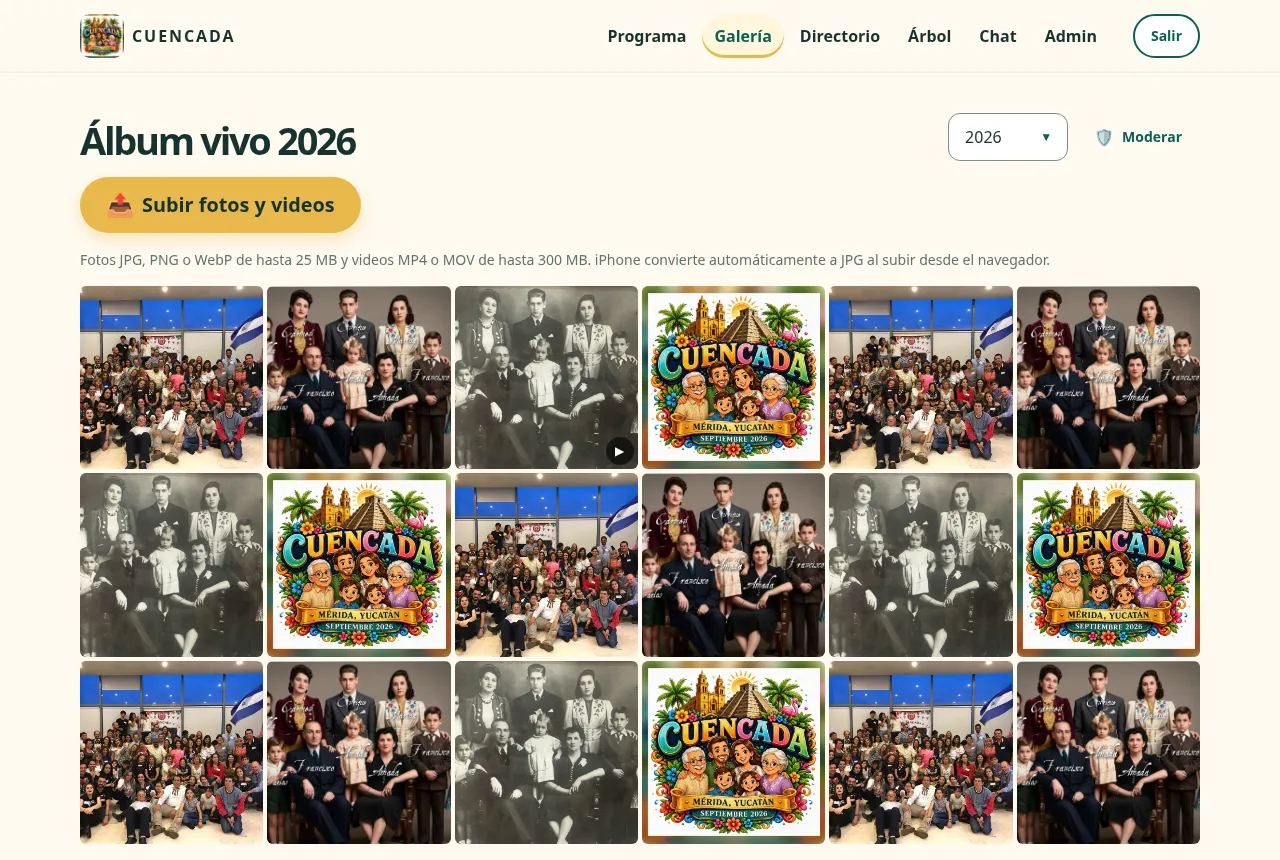
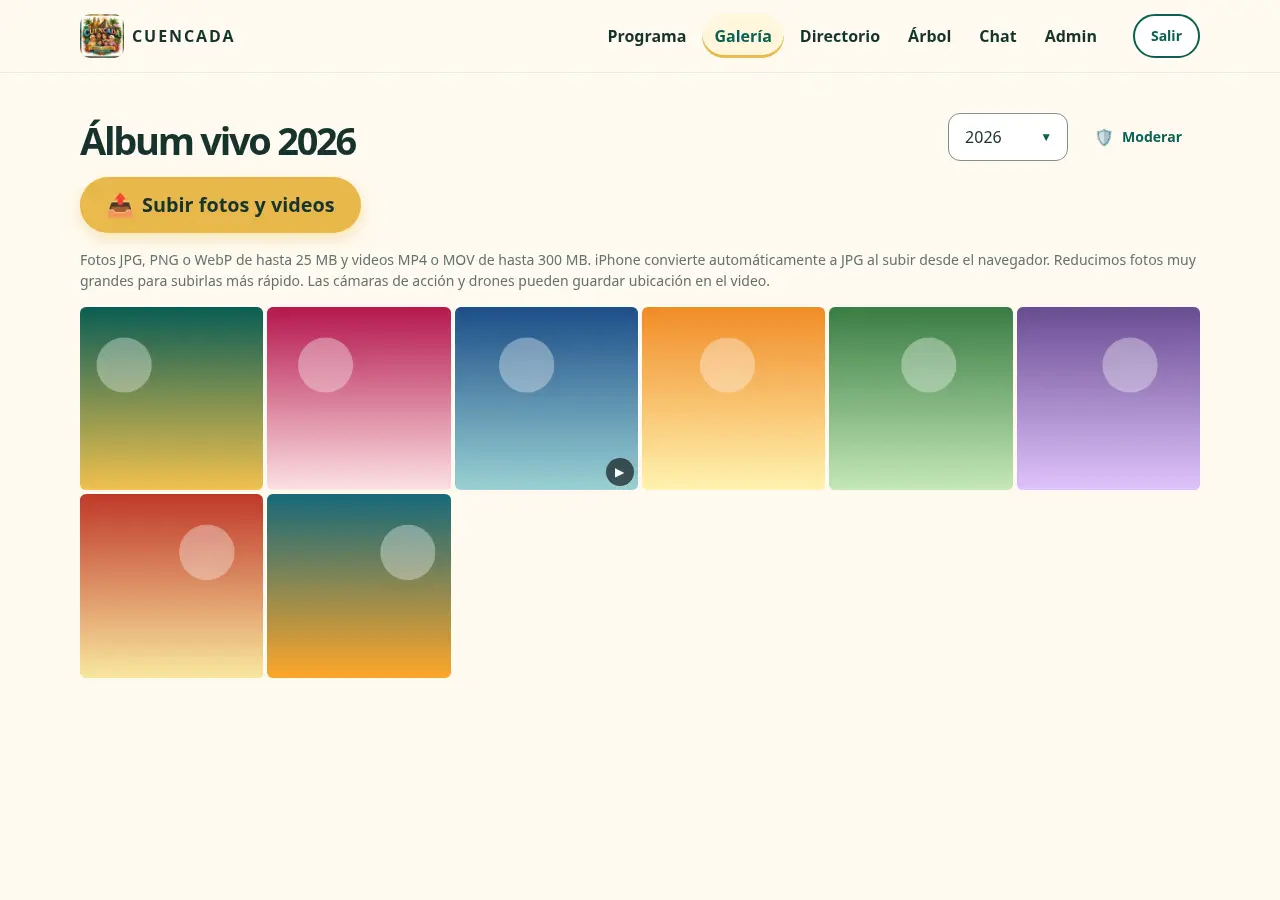
WP-0.8c: review logs and screenshots (fictional data, no family photos)
- WP-T1/T2/T3/T4/T5/T6/T8-FE.md: WP-0.8c review-log entries.
- New: t2/programa-etiquetas, t5/directorio-telefonos, t8/bitacora-avisos.
- Re-taken with generated gradient placeholders (no people): t2/home-memories,
  t4/grid, lightbox, upload-sheet, upload-progress, admin-queue (375, 1280).
  0 px horizontal overflow at 320/375/1280.

Claude-Session: https://claude.ai/code/session_01Bj2xLmagfFJ5w53HEUn9Sj

diff --git a/apps/web/src/features/cuencadas/pages/HomePage.test.tsx b/apps/web/src/features/cuencadas/pages/HomePage.test.tsx
@@ -113,7 +113,7 @@ describe("HomePage", () => {
     expect(within(memories).getByText("Inicia sesión para ver las fotos de la familia")).toBeInTheDocument();
     expect(within(memories).getByRole("link", { name: "Entrar" })).toHaveAttribute("href", "/entrar");
     const sources = Array.from(document.querySelectorAll("img")).map((img) => img.getAttribute("src") ?? "");
-    expect(sources.some((src) => src.includes("/images/fotos") || src.includes("bucket"))).toBe(false);
+    expect(sources.some((src) => /\/fotos\//.test(src) || src.includes("bucket"))).toBe(false);
   });
 
   it("asks members with an unverified email to verify before showing photos", async () => {

diff --git a/docs/coordination/WP-T2-FE.md b/docs/coordination/WP-T2-FE.md
@@ -110,7 +110,7 @@ Owner: Frontend · Reviewers: TL, Sec · Branch: wp/t2-fe-cuencadas · PR: # (no
 5. **R5, WP-0.6/app (`AppLayout.tsx`, not mine):** the `TODO(T2)` "Programa" tab still points at `/cuencada/2026`. It should use `featured?.year ?? latestPast?.year` from `useGetCuencadaHomeQuery`, which is now available from `features/cuencadas/api`.
 6. **R6, WP-0.7 (`shared/ui/Countdown.tsx`):** `Countdown` computes with its own `getCountdown`, which duplicates `computeCountdown` in `shared/lib/dates.ts`. Please make it use `computeCountdown` and drop `getCountdown`. T2 already uses `computeCountdown` for ticking.
 7. **R7, admin GET filter:** `GET /admin/announcements` can't filter for portal-wide announcements only (`cuencadaId=null`). The web filters client-side. Consider `?scope=portal`.
-8. **R8, T4:** the Home memories mosaic uses the 4 static public photos in `public/images/fotos`. Replace it with admin-picked public highlights when T4 has them.
+8. **R8, T4:** ~~static Home mosaic~~ Done in WP-0.8c: family photos are members-only (owner decision). Visitors get the brand art and a login teaser; verified members see `GalleryPreview` of the latest past edition. Admin-picked highlights can still come later.
 9. **R9, WP-2.4 CSP:** add `frame-src 'self' https://weatherwidget.io`. Nothing else third-party is loaded by T2 pages.
 10. **R10, WP-0.1:** under heavy machine load, lazy-route tests can exceed Testing Library's 1 s `findBy` default. My three route-level test files raise `asyncUtilTimeout` to 5 s locally. A shared setting in `test/setup.ts` may be worth it.
 
@@ -157,3 +157,11 @@ Owner: Frontend · Reviewers: TL, Sec · Branch: wp/t2-fe-cuencadas · PR: # (no
   - **Note for other tracks:** every page now issues `GET /cuencadas/home` from the layout. Test files with `onUnhandledRequest: "error"` and no handler for it log "[MSW] Error … GET /api/cuencadas/home" (25 occurrences, all tests passing). Add `http.get(apiUrl("/cuencadas/home"), () => HttpResponse.json(makeMemoriesHome()))` to silence it.
   - Initial JS is 166.88 KB gzip (was 166.52), because `cuencadas/api.ts` is now in the layout chunk.
 - 2026-10-06: Clima redesigned twice at the orchestrator's request: script injection → sandboxed same-origin page → direct weatherwidget.io frame with the postMessage config. The Security L6 clamp is 150–250 px.
+- 2026-10-06, **WP-0.8c**:
+  - `idFromHash()` (in `lib/format.ts`) catches the `URIError` of a malformed fragment.
+  - Daily message: `useZonedToday` / `useOnNewDay` set one timer to the next local midnight in the edition's timezone (re-checked on `visibilitychange`) and refetch Home and the year page, so the new day's message appears.
+  - Countdown: `countdownInstants()` lets the server status drive "¡YA LLEGÓ!" (`active`) and the past message; `upcoming` still follows the clock.
+  - Itinerary `tags` show as chips on the Programa (plain text); the admin activity form has a tags field (contract rules: 6 max, 24 chars, case-insensitive duplicates skipped, Enter adds).
+  - Admin: "Asistencia y confirmaciones" link on the edit page; short Mensajes import-mode labels ("Agregar o actualizar" / "Reemplazar todo") with the detail in the hint; forecast hint with an example `https://forecast7.com/es/…` URL and a client-side error for `www.` or other hosts.
+  - Home "Últimos momentos" no longer uses the static family photos: visitors see the logo and "Inicia sesión para ver las fotos de la familia" (→ `/entrar`), unverified members a verify teaser, verified members `GalleryPreview`.
+  - Screenshots: new `t2/programa-etiquetas-{375,1280}`; `home-memories-*` re-taken with no family photos. 0 px overflow at 320/375/1280.

diff --git a/docs/coordination/WP-T8-FE.md b/docs/coordination/WP-T8-FE.md
@@ -33,7 +33,7 @@ Based on `origin/main` (2bcb7a0) with `origin/wp/t8-be-admin` merged in for the 
 - **`emailQueued`:** `true` → success "…le enviamos un correo para elegir una contraseña nueva."; `false` → an info notice that the account must still change its password but no email went out (disabled account or mail budget) and "Avísale por otro medio."
 - **Enable has a light confirmation** ("Sus sesiones anteriores siguen cerradas…") so a mis-tap can't re-open a disabled account. Promote also confirms.
 - **Invite form delivery:** two modes, "Por correo" (bound, sent, single use) and "Enlace para compartir" (open). The contract's third case, a bound copy-link member invite (`email` + `sendEmail: false`), isn't offered: it loses the "delivered by email ⇒ verified" guarantee and adds a confusing choice. The form validates with the contract schema, so client and server rules can't drift.
-- **"Sin verificar correo" card** links to the active users list: `GET /admin/users` has no verified filter; rows carry a "Sin verificar" badge.
+- **"Sin verificar correo" card** opens `/admin/usuarios?estado=active&correo=sin-verificar` (`emailVerified=false`, WP-0.8b).
 - **Dates:** `PORTAL_TIME_ZONE` (`America/Merida`, from T1) for every admin timestamp and for the audit day range (`desde` = local midnight, `hasta` = end of that local day). `zonedMidnight` handles any offset/DST (tested with Europe/Madrid).
 - **Cache tags:** `Invite LIST`, `AdminUser LIST` (shared with T6's account picker, so it refreshes too), `AdminUser SUMMARY` for the dashboard, `AuditLog LIST`. Each write invalidates what it changes, plus the audit log. No new tag types.
 - **Asistencia** has no index page of its own (it's per edition): the nav row opens Cuencadas, and the dashboard's RSVP card deep-links to the next edition's asistencia (T3-FE, merged in #23).
@@ -53,3 +53,12 @@ Based on `origin/main` (2bcb7a0) with `origin/wp/t8-be-admin` merged in for the 
 - **T8-BE (optional):** an `emailVerified=false` filter on `GET /admin/users` would let the "Sin verificar correo" card open an exact list.
 - **T4-FE (optional):** reading `?cola=reported` on `/admin/media` would let the "Fotos reportadas" card open that tab directly.
 - **Coordination board:** please mark T8-FE as in review (README not edited to avoid conflicts).
+
+## Review log
+- 2026-10-06, **WP-0.8c**:
+  - [SEC] `createAdminInvite` is dispatched with `{ track: false }`: the one-time URL never enters the Redux store (asserted on the whole state).
+  - Copy success adds "El enlace queda en tu portapapeles: pégalo solo en el chat de la familia y, al terminar, copia otra cosa para borrarlo."
+  - Bitácora: `adminAlertExempt` / `adminAlertLimitNotice` / `adminAlertSkipped` (literal `true` only) show as badges; entity ids show 8 characters on phones (full id in `title`, visible from 600 px and read by screen readers). "Hasta" is sent as the start of the next local day (exclusive `to`, WP-0.8b).
+  - Usuarios: "Correo" filter (`?correo=sin-verificar|verificado` → `emailVerified`), with a client-side check; a 429 on `PATCH` shows the server's message (per-account limit).
+  - Dashboard photo cards link to `/admin/media?cola=pending|reported`.
+  - Screenshot `t8/bitacora-avisos-{375,1280}`.

diff --git a/docs/coordination/WP-T4-FE.md b/docs/coordination/WP-T4-FE.md
@@ -187,7 +187,7 @@ Outside the feature, for Security L2 (round 1, authorized by the orchestrator fo
   - `AdminMediaPage` 3.0 KB gzip
 - `pnpm --filter @cuencada/web size`: initial JS **167.56 KB gzip** (budget 190 KB). No gallery code is in the initial chunk; only the lazy route entries are.
 - **Screenshots** are in `docs/ux/screenshots/t4/`: `grid`, `lightbox`, `upload-sheet`, `upload-progress` and `admin-queue`, each at 375 and 1280.
-  - They were taken with headless Chromium against the Vite dev server, with `/api/**` stubbed, placeholder images from `public/images/fotos/`, and a fake XHR (72%, failed, 18%, waiting).
+  - They were taken with headless Chromium against the Vite dev server, with `/api/**` stubbed and a fake XHR (72%, failed, 18%, waiting). Re-taken in WP-0.8c with generated gradient placeholders (no people) and real XHRs routed by Playwright (one failed, the rest in flight).
   - Horizontal overflow measured **0 px** for all five screens at 320, 375 and 1280.
 
 ## Open questions (→ orchestrator)
@@ -219,3 +219,11 @@ Outside the feature, for Security L2 (round 1, authorized by the orchestrator fo
   - **TL 8:** `GalleryPreview` uses `selectPasswordChangeRequired`.
   - **Nits:** `pollingInterval` is computed directly (no `useEffect`/`setPoll`), and the panel title id uses `useId()`. The Lightbox "⋯" sheet is left for later.
   - Screenshots were not retaken. The visible changes are only the missing ✕ while "Verificando…" and the hidden live region.
+- 2026-10-06, **WP-0.8c**:
+  - `/galeria` (no year) picks the default from `CuencadaSummary.hasMedia` in one `GET /cuencadas` (`galleryYearsFrom`); the per-year probes are gone.
+  - `VITE_MEDIA_UPLOAD_ORIGIN` is checked **before** an intent: unset → the upload button is disabled with "Por ahora no se pueden subir fotos ni videos. Avísale a un administrador." (plus a dev-only hint naming the variable), the empty-state action is hidden, and the upload manager refuses without calling the API (no orphan `pending_upload` rows).
+  - Upload help adds "Las cámaras de acción y drones pueden guardar ubicación en el video." and "Reducimos fotos muy grandes para subirlas más rápido."
+  - **Large photos:** `readImageSize()` reads JPEG/PNG/WebP dimensions from the header; photos above 40 MP are decoded (`createImageBitmap`, EXIF orientation), drawn to ≤ 24 MP on an OffscreenCanvas in a one-shot module worker (main-thread fallback), re-encoded as JPEG q 0.92 (EXIF stripped) and the intent carries the new type/size/`.jpg` name. One image at a time; bitmaps closed. Smaller photos and videos are untouched; a decode failure fails the row in Spanish without an intent. Exported from `features/gallery` for T5 avatars.
+  - `/admin/media?cola=pending|reported|hidden` selects the tab (unknown → pending) and stays in sync; the T8 dashboard photo cards deep-link to it.
+  - The gallery list and preview show the shared verify / no-access states on 403.
+  - Screenshots `grid`, `lightbox`, `upload-sheet`, `upload-progress`, `admin-queue` re-taken with generated placeholders.

diff --git a/docs/coordination/WP-T5-FE.md b/docs/coordination/WP-T5-FE.md
@@ -62,3 +62,13 @@ Built on `origin/main` against the profile contract (`packages/types/src/profile
 - `pnpm test`: 100 files, 1088 tests, all passing (web: 50 files, 453). New: `ProfilePage.test.tsx` (18), `profileForm.test.ts` (7), `DirectoryPage.test.tsx` (15), `contactLinks.test.ts` (16). One full run had 5 server DB tests time out at ~35 s under machine load (other agents share the box); they passed on the re-run.
 - `pnpm build` OK. Size: **169.59 kB gzip** initial JS (budget 190). Lazy chunks: ProfilePage 5.65 kB, DirectoryPage 4.62 kB gzip.
 - **Screenshots** in `docs/ux/screenshots/t5/` at 375 and 1280: `perfil` (with avatar, "Quitar foto" and the directory switch), `directorio` (list) and `directorio-detalle`. Fixtures and screenshots use fictional people only (surname "Ejemplo", branches "Rama Norte/Sur/Costa", `example.com` emails, drawn avatars). 0 px horizontal overflow and 0 elements outside the viewport at 320, 375 and 1280.
+
+## Review log
+- 2026-10-06, **WP-0.8c**:
+  - "Aparecer en el directorio" help adds "Tus mensajes en el chat seguirán mostrando tu nombre y foto."
+  - "Cargar más" that gets a 400 (stale cursor, e.g. after hiding myself) drops the extra pages and reloads page 1.
+  - **Phones:** no country code is ever assumed. `+`/`00`/11–15 digits are international (WhatsApp + `tel:+…`); shorter numbers are local (`tel:` as typed, no `wa.me`, note "Este número no tiene código de país…"). Buttons show the number ("WhatsApp +52 …", "Llamar al …"). Request: store E.164 server-side.
+  - City filter: prefix suggestions (accent/case-insensitive) from the rows already loaded.
+  - Avatar: unmount also aborts the confirm request; no bucket origin → refused before any intent; photos above 2048 px on the long edge are re-encoded as a 2048 px JPEG (q 0.9) first, so 48–200 MP phone photos pass the server's 24 MP cap; the size limit is checked after that.
+  - 403 states use the shared `classifyAccessDenial` (also `EMAIL_UNVERIFIED`).
+  - Screenshot `t5/directorio-telefonos-{375,1280}` (local number, no WhatsApp).

diff --git a/docs/coordination/WP-T1-FE.md b/docs/coordination/WP-T1-FE.md
@@ -219,3 +219,5 @@ No changes to `packages/types/src/auth.ts`.
   - **TL:** approved, with non-blocking items #1, #2 and #4 addressed. #3 (merge order) is moot now that T2 merged first, and `origin/main` is merged in.
   - **Security:** changes requested for M1, now fixed. L2 and I1 are fixed. L1 (open-invite email probing) is left to T1-BE rate limiting.
   - Details in the section above.
+- 2026-10-06, **WP-0.8c**: 403s now go through `classifyAccessDenial` / `useAccessDenial` in `features/auth/accessDenied.ts`: `EMAIL_UNVERIFIED` (read as a string until WP-0.8a adds it to `ErrorCode`), or `FORBIDDEN` with `emailVerified === false`, shows the verify state with the resend button; any other 403 shows "No tienes acceso…" and never a retry. `AccessDeniedState` is the shared full-width state.
+- 2026-10-06, WP-0.8c: "Cerrar sesión en todos los dispositivos" sends one untracked `POST /auth/logout-all`, then `finishLogoutEverywhere()` (local `loggedOut`, pending-logout marker cleared, other tabs told). On a second consecutive `REFRESH_RACE`, `reauth.ts` waits `REFRESH_RACE_GRACE_WAIT_MS` (11 s, past the server's 10 s grace) and retries once; a logout while waiting drops it. The 202 screens (magic link, reset, verification resend) add "Si no llega en unos minutos, revisa la carpeta de spam o vuelve a pedirlo."; the reset screen gets "Pedir otro enlace". Test fixtures use fictional names ("Ejemplo").

diff --git a/docs/coordination/WP-T6-FE.md b/docs/coordination/WP-T6-FE.md
@@ -88,3 +88,9 @@ Fixtures use fictional people only (public repo). Tests, the screenshot stub and
 7. **WP-0.7:** the screen would benefit from a shared `PersonChip` and a horizontal-scroll strip primitive; both are local to the family feature for now.
 
 ## Review log
+- 2026-10-06, **WP-0.8c**:
+  - [SEC] The breadcrumb's history state is `{ trail: personId[] }`; names are resolved from memory (RTK Query cache + names seen while mounted), so no names persist in session history. Legacy `{ id, name }` entries are read as ids; unknown ids are skipped.
+  - Admin pages for an unverified admin (the tree endpoints need a verified email) show the verify state, not "Reintentar"; the member tree shows "No tienes acceso al árbol familiar" for other 403s.
+  - "Quitar a …" is disabled for a person linked to an account, with the reason; a 409 shows the server's message.
+  - The linked account shows as "Nombre (correo)" (found with `GET /admin/users?q=<person name>`; a by-id endpoint would be exact).
+  - WP-0.8b hides living relatives' `birthYear` from other members: the focus card then shows no year (tested); the self-edit form still gets your own year.

diff --git a/docs/coordination/WP-T3-FE.md b/docs/coordination/WP-T3-FE.md
@@ -106,3 +106,4 @@ Owner: Frontend · Reviewers: TL, Sec · Branch: wp/t3-fe-rsvp · PR: # (not ope
 ## Review log
 - 2026-10-06, aligned with the merged T3-BE (orchestrator): `Attendee.isMe` replaces the id matching; 409 `CONFLICT` for closed RSVPs; admin attendance saved with `PUT { personIds }`; `RSVP_DATE_WINDOW_DAYS` (±14); deadline shown and enforced by local day; one CSV BOM; blob URL revoked (TL); `maybe` rows dropped from the strip (T3-BE lists `yes` + attendance). Screenshots re-taken.
 - 2026-10-06: fixtures and screenshots switched to fictional people only (public repo); screenshots re-taken. Web tests: 54 files, 471 passing after the main merge.
+- 2026-10-06, **WP-0.8c**: while the hotel list (members details) is loading or failed, `hotelChoices()` keeps the saved RSVP's hotel as an option ("El hotel que ya elegiste") and valid, so re-saving isn't blocked; a hint says the list couldn't load. The deadline lock uses `useZonedToday`, so the card locks at local midnight with the page open. `CuencadaYearPage.test.tsx` warms the lazy page module in `beforeAll`. The attendee strip's 403 goes through the shared `classifyAccessDenial`.
